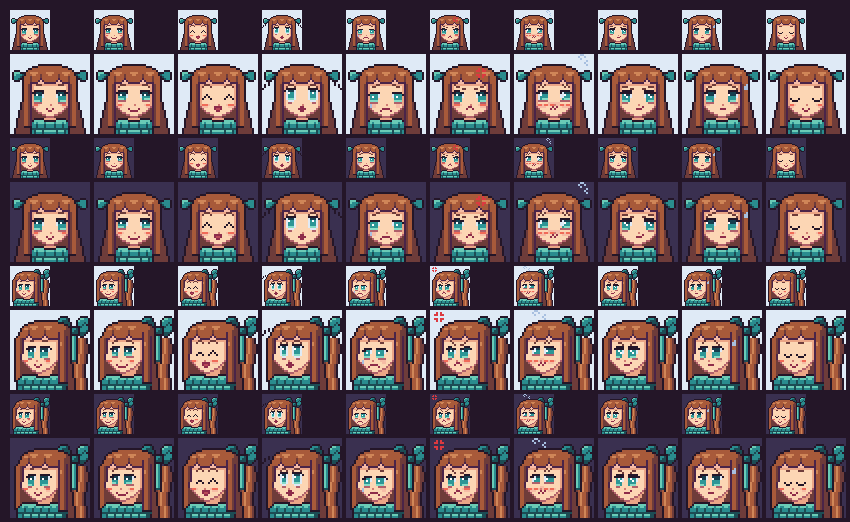
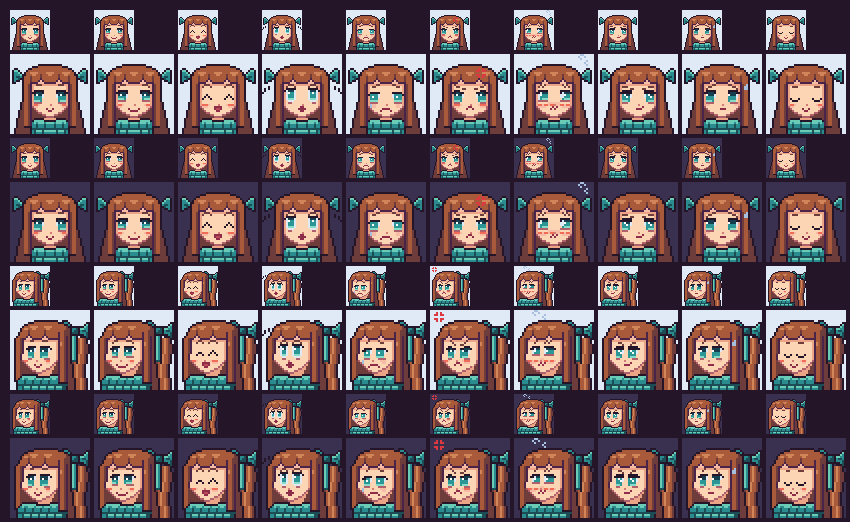
r13 head_small round 4: unified 38px bow, side bangs, hole fix

diff --git a/docs/review/r13_head_small.md b/docs/review/r13_head_small.md
@@ -1,4 +1,4 @@
-# r13 Head at full-body scale (Pixel Artist 3), review-2 fixes 1 and 7 applied
+# r13 Head at full-body scale (Pixel Artist 3), review-3 bow ruling applied
 
 This is candidate C's face as a ~27 px head on 40x40 canvases, pasted into the 96x160 bodies at x+28.
 
@@ -19,17 +19,19 @@ This is candidate C's face as a ~27 px head on 40x40 canvases, pasted into the 9
 | y27-28 | 1-2-1 smile |
 | y31 | chin |
 
-## Bow
-- **Front:** a wedge on each side, coming out from behind the hair at y8-13 (x1-6 and x33-38). It shows 5 px or less, widens outward and has one `teal_0` crease. The outer corner is the highest point.
-- **3/4:** a 5x5 knot on the back of the skull (x30-34, y8-12). The far loop shows over the crown and the near loop goes up and back.
-- **Side:** lobe y8-18, knot x29-33 y10-14.
-- **Back:** a 5x5 knot (x17-21, y9-13) over the ponytail root; two tails run off the bottom edge.
+## Bow (review 3: one size everywhere)
+Each loop sticks out 5 px past the skull, the bow spans 38 px, and the loops sit at y6-15 with the outer tip lowest. `teal_2` is on the top edge only, with one `teal_0` crease.
+- **Front:** fans at x1-5 and x34-38, y7-14. Each is 2 px tall at the hair and 8 px at the tip.
+- **3/4:** 5x5 knot at x30-34, y8-12. The near-loop fan is at x35-39, y6-14; the far-loop nub is lowered behind the crown (y5-7).
+- **Side:** the near loop faces us at x27-35, y6-15 (4 px past the back hair), with a pleat in the centre. No clipping.
+- **Back:** fans at x1-38, y6-15, with a 5x5 knot at x17-21, y9-13. The rounded skull arc shows at x12-27, y5-8. Two tails run off the bottom edge.
 
 ## Side profile
 - The forehead curves from x10 to x8.
 - The nose is a 1 px upturned tip at (7,23), and the face steps back at y24.
 - The mouth is a single `line_skin` pixel at (9,26).
 - The chin is rounded at y27-31.
+- The bang overhangs 2 px with a rounded tip (row 14 starts at x8). The hole at (16,15) is filled with `u`.
 - There are no side expressions.
 
 **3/4:** far eye 4 px (3 px iris), near eye 5 px, 2 px nose-bridge gap.
